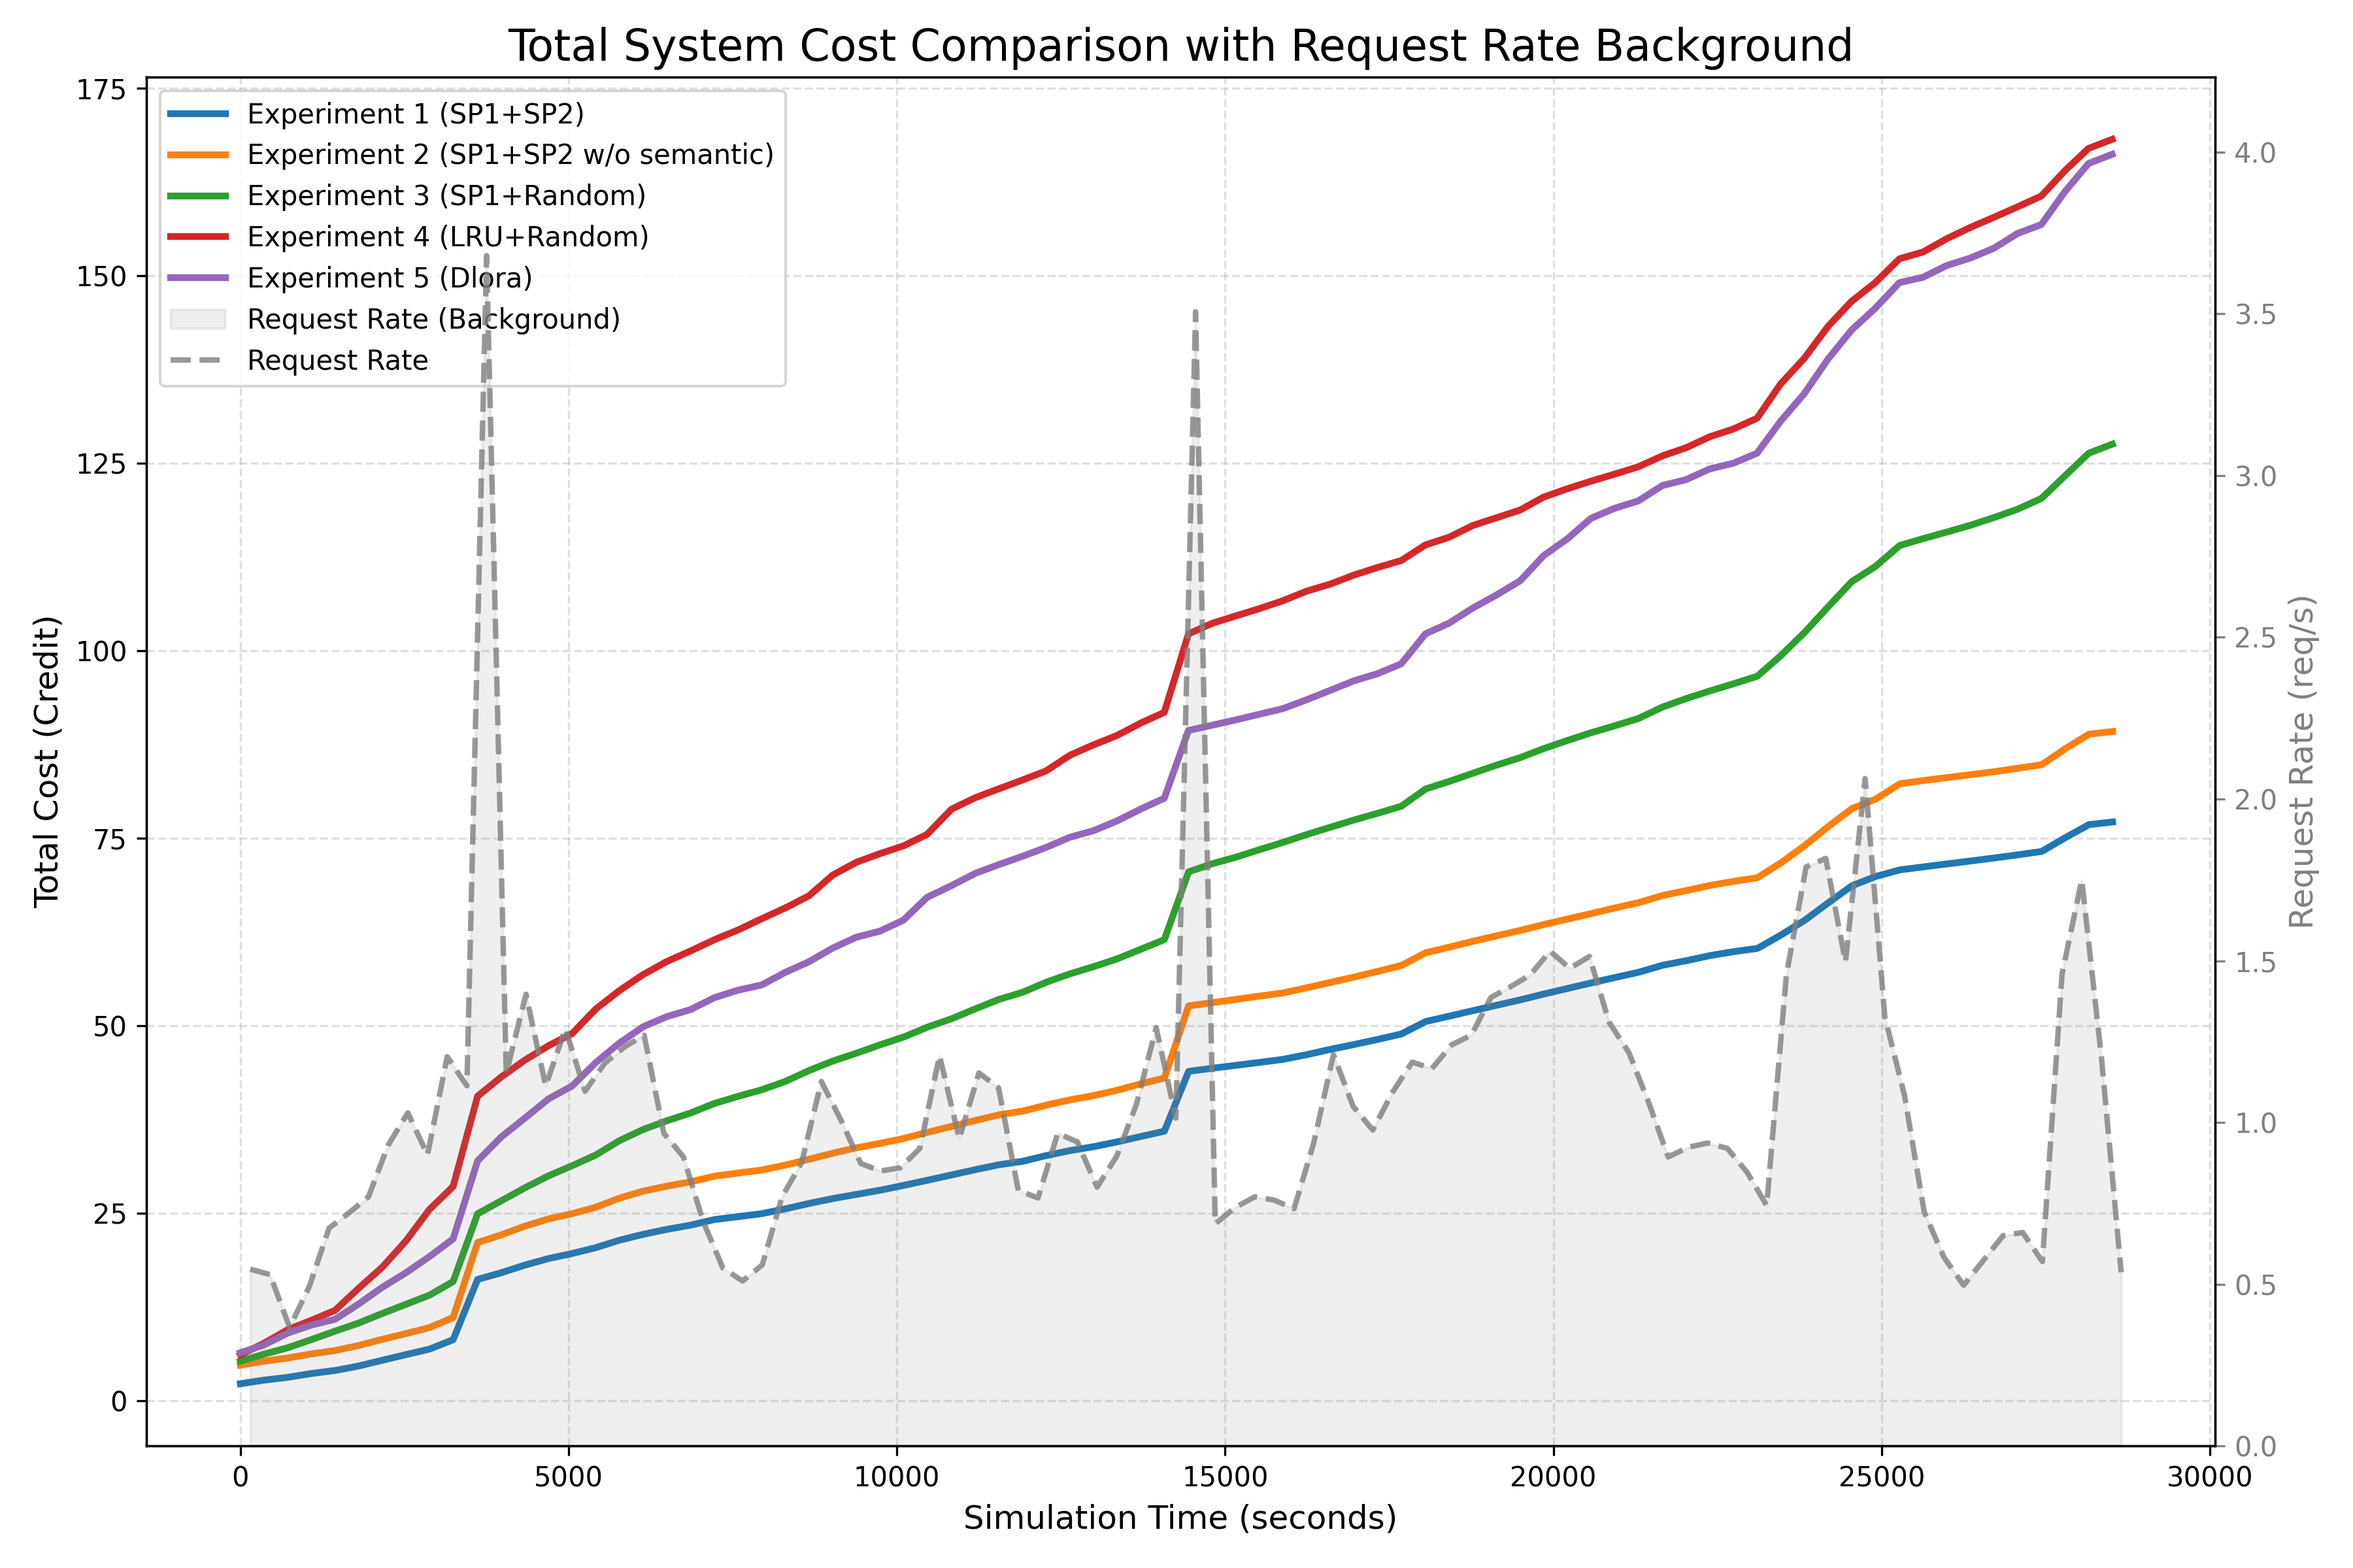
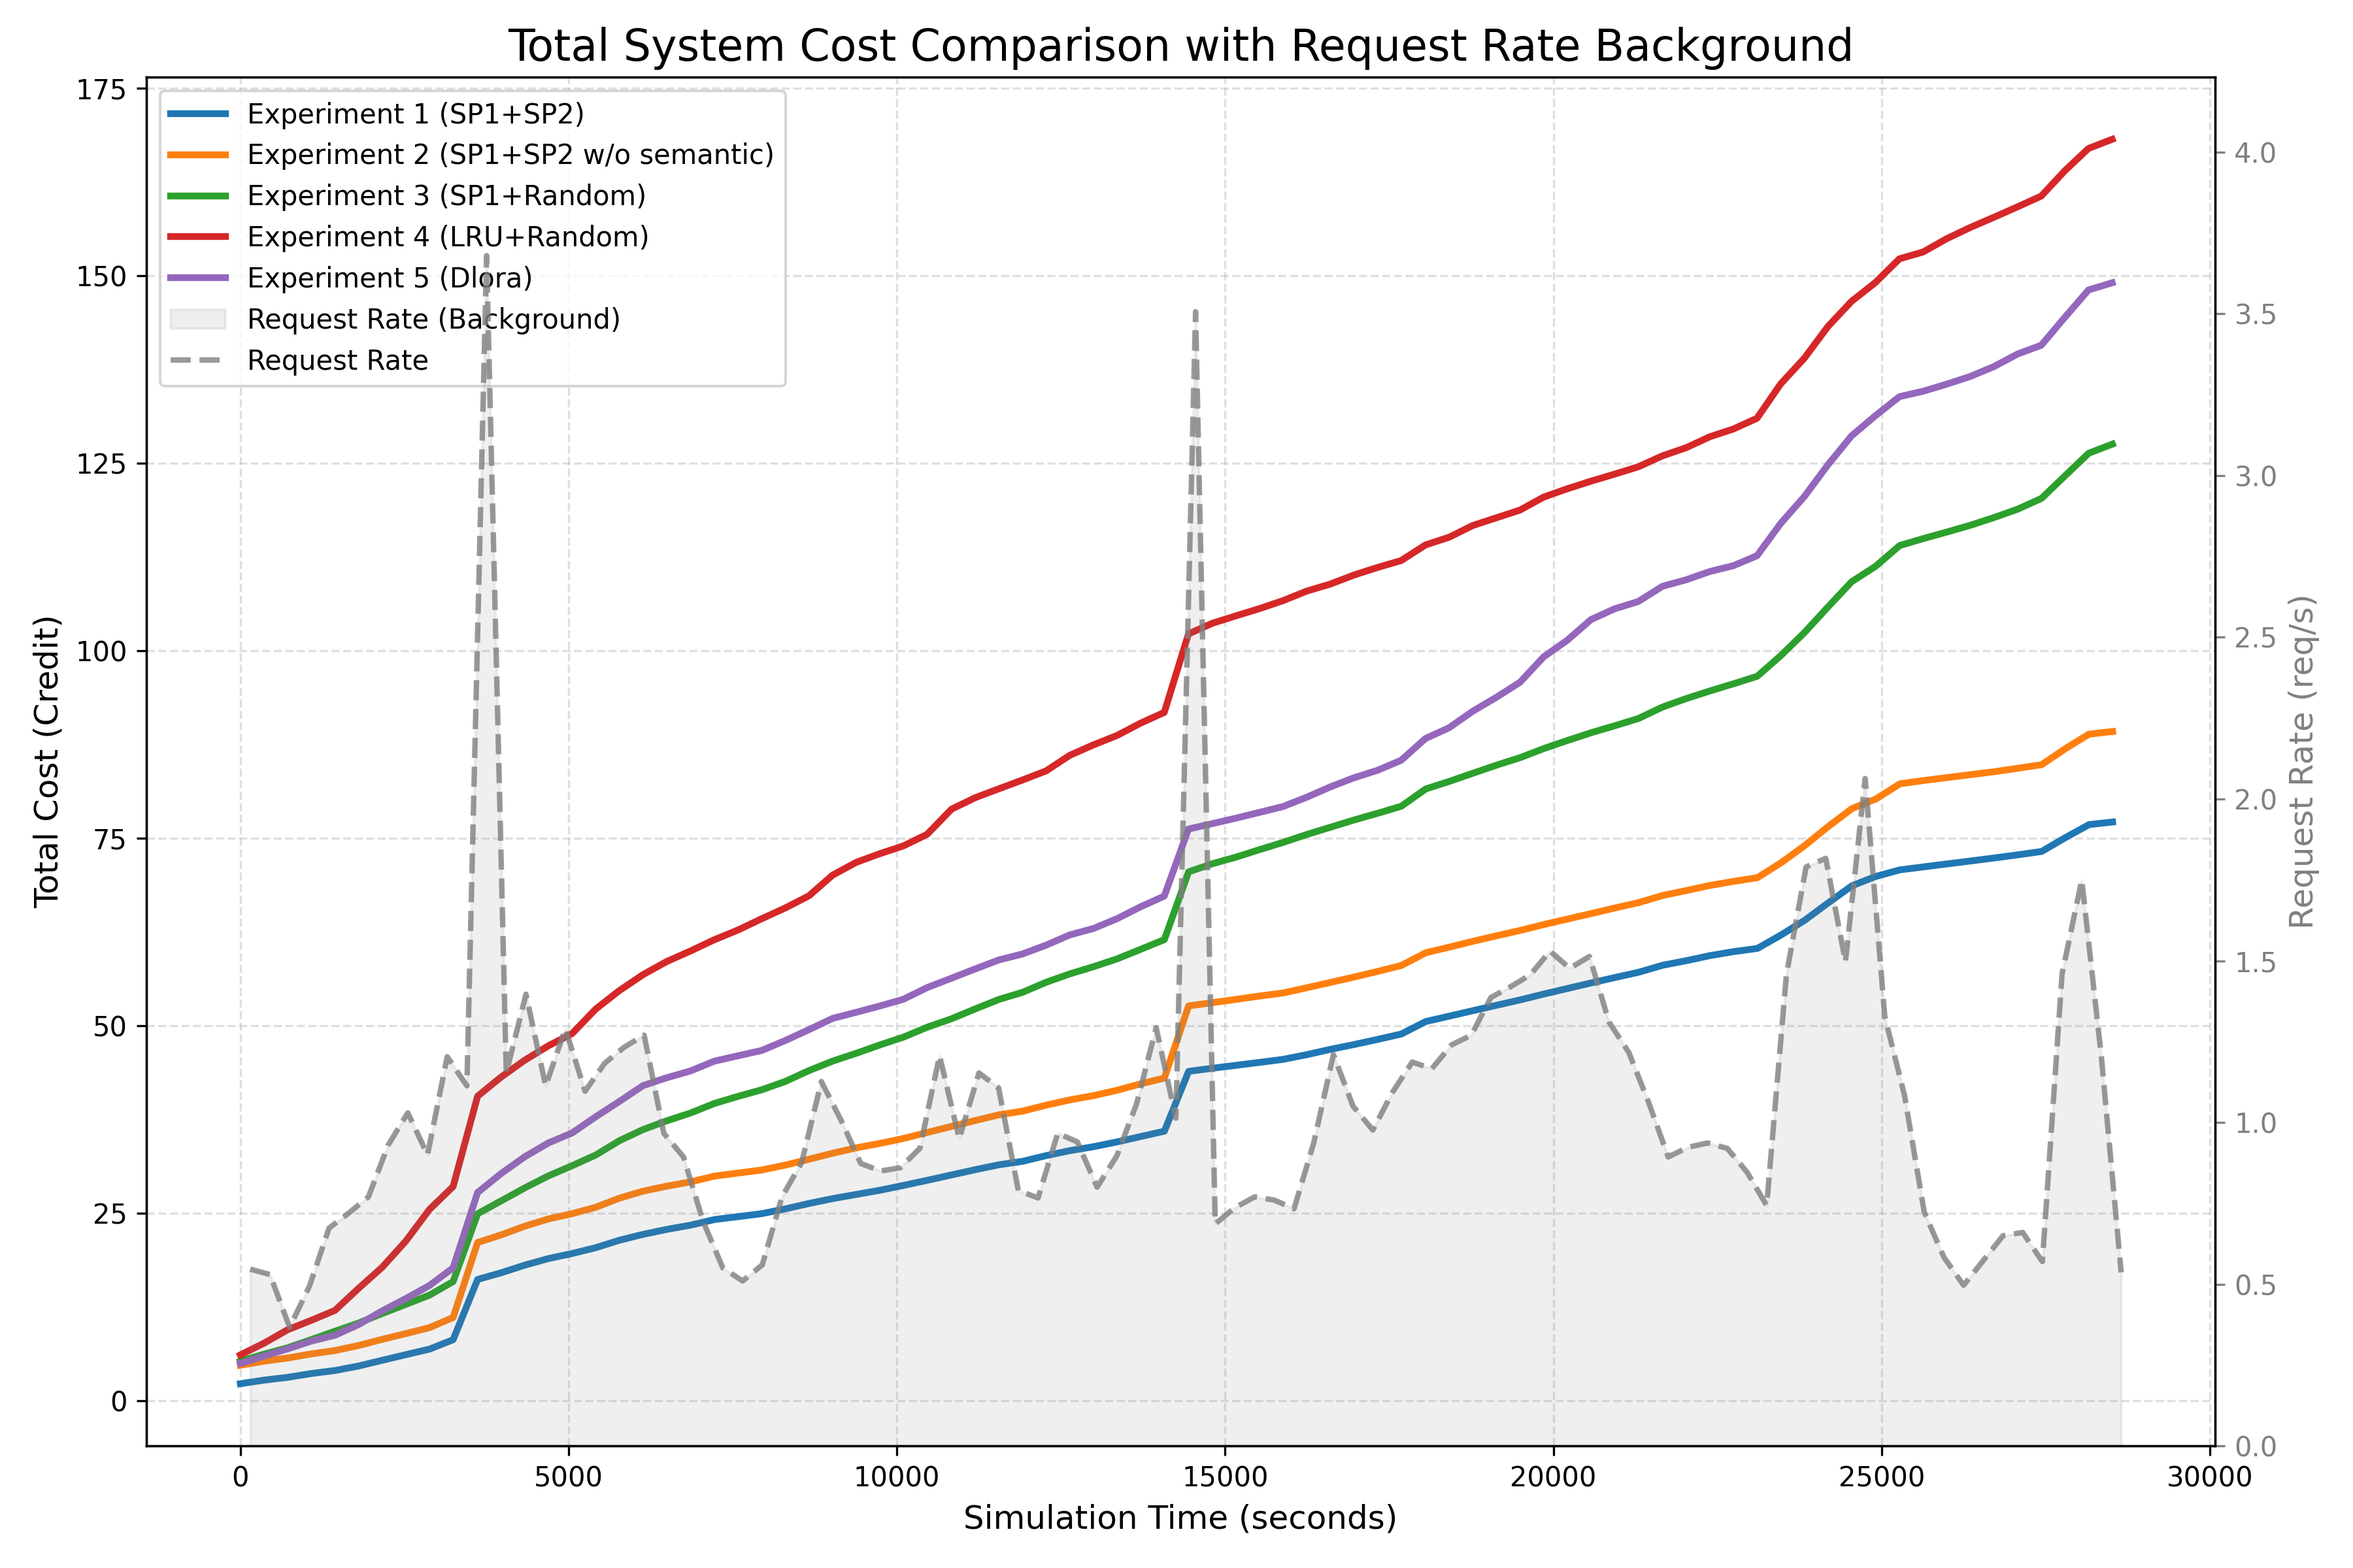
tmp

diff --git a/control_node_server_dlora.py b/control_node_server_dlora.py
@@ -34,6 +34,7 @@ SIM_DOWNLOAD_DELAY = 3.0
 # dLoRA 動態批次切換門檻 (論文數值)
 DLORA_MERGE_RIGHT_THRESHOLD = 1.0    # 進入 Merge 模式：需要單一模型佔比達 100%
 DLORA_MERGE_LEFT_THRESHOLD = 0.555   # 退出 Merge 模式：該模型佔比低於 55.5% 才退回 Unmerged 共享
+MIN_MERGE_REQUESTS = 4
 
 # ============================================================
 # Config & Logging
@@ -258,12 +259,11 @@ async def dlora_batching_controller():
                 current_mode = metrics.get("mode")
                 merged_adapter = metrics.get("lora_state", {}).get("merged_adapter")
                 req_set = metrics.get("request_set", [])
-                
-                # 修復 1: 當佇列空了，如果還在 Merge 模式，必須主動退回 Unmerge，釋放 GPU 鎖定
-                if not req_set: 
+                total_reqs = len(req_set)
+                if total_reqs < MIN_MERGE_REQUESTS:
                     if current_mode == "merge":
                         asyncio.create_task(client.post(f"{url}/unmerge", json={"force": True}))
-                        logger.info(f"🔄 [dLoRA] Node {url} -> UNMERGE (Queue empty, releasing lock)")
+                        logger.info(f"🔄 [dLoRA] Node {url} -> UNMERGE (Low load: {total_reqs} reqs < {MIN_MERGE_REQUESTS})")
                     continue
                 
                 # 計算當前 Queue 中的 LoRA 佔比
